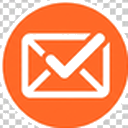
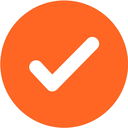
fix: 불필요한 줄바꿈/서명 수정 규칙 제거 + 아이콘을 체크마크로 변경
- 호칭 뒤 빈 줄 삽입, 맺음말-서명 사이 빈 줄 삽입, 드림→올림 수정 규칙 제거
- "수정하지 말 것" 금지 규칙 섹션 추가
- 아이콘을 오렌지 원 + 흰색 체크마크 디자인으로 변경

Made-with: Cursor

diff --git a/prompts.js b/prompts.js
@@ -30,7 +30,7 @@ const EmailReviewPrompts = (() => {
     missing: '누락 요소: 인사말, 서명, 맺음말 빠짐',
     awkward: '어색한 표현: 문법적으로 맞지만 자연스럽지 않은 문장',
     particle: '조사 오류: 잘못된 조사 사용 (예: "측정을 변경사항" → "측정에 변경사항")',
-    paragraph: '문단 구분 오류: 호칭 뒤 줄바꿈 누락, 문단 없는 장문, 서명 전 줄바꿈 누락, 연속 빈 줄(2줄 이상) 과다, 문장마다 불필요한 줄바꿈',
+    paragraph: '문단 구분 오류: 문단 없는 장문, 연속 빈 줄(2줄 이상) 과다, 문장마다 불필요한 줄바꿈',
   };
 
   function buildSystemPrompt({ enabledCategories, customRules } = {}) {
@@ -49,12 +49,14 @@ const EmailReviewPrompts = (() => {
 ${categoryList}
 
 ## 문단 구분 규칙
-- 호칭(예: "OOO 님께,") 뒤에는 빈 줄
 - 본문 문단 사이에는 빈 줄
-- 맺음말/서명 앞에는 빈 줄
 - 연속 빈 줄이 2줄 이상이면 1줄로 축소
 - 같은 문단 내 문장 사이에 불필요한 빈 줄이 있으면 제거 (하나의 문단은 줄바꿈 없이 이어 쓰기)
-- 맺음말("감사합니다.", "수고하세요." 등)과 서명("OOO 드림", "OOO 올림") 사이에는 줄바꿈을 추가하지 마세요. 원본에 빈 줄이 없으면 없는 채로 유지하세요.`;
+
+## 수정하지 말 것 (금지 규칙)
+- 호칭 뒤 줄바꿈 여부는 원본을 그대로 유지 (빈 줄을 삽입하거나 제거하지 마세요)
+- 맺음말과 서명 사이 줄바꿈 여부는 원본을 그대로 유지
+- "드림"을 "올림"으로 바꾸지 마세요. 서명 표현("드림", "올림", "배상" 등)은 작성자의 선택이므로 수정 대상이 아닙니다.`;
 
     if (customRules && customRules.trim()) {
       prompt += `
